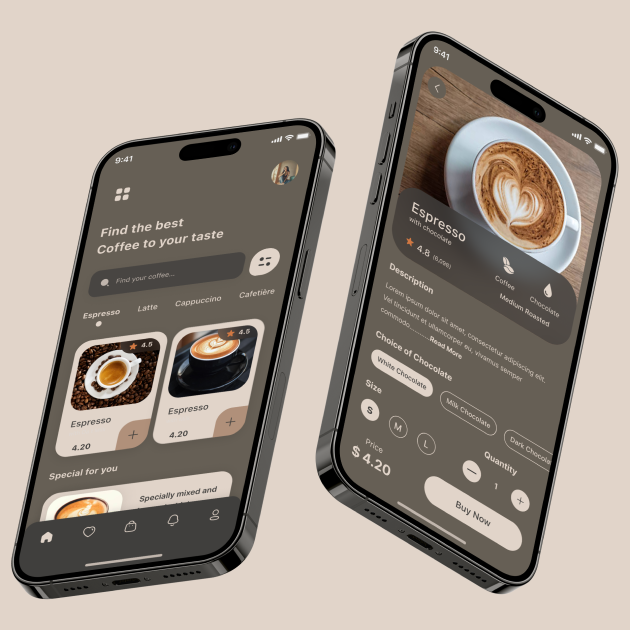
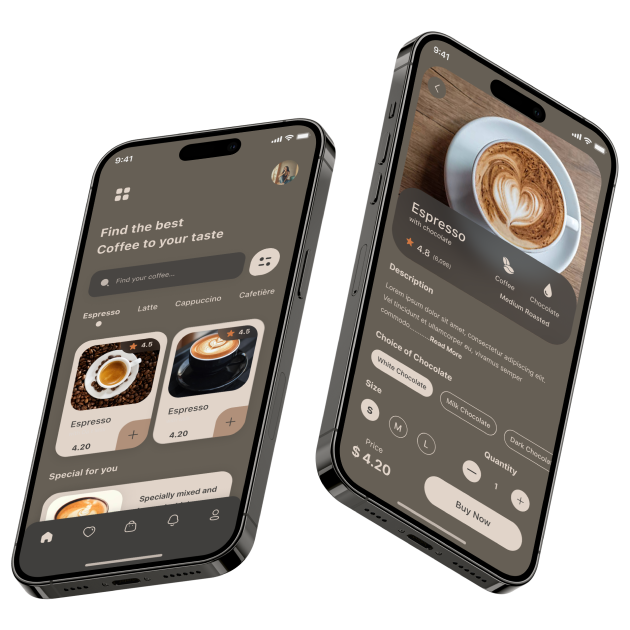
feat: new html and css

diff --git a/index.html b/index.html
@@ -8,44 +8,53 @@
     <meta name="author" content="Kate">
     <title>Document</title>
     <link rel="stylesheet" href="css/style.css">
+    <link rel="preconnect" href="https://fonts.googleapis.com">
+    <link rel="preconnect" href="https://fonts.gstatic.com" crossorigin>
+    <link href="https://fonts.googleapis.com/css2?family=Inter:wght@400;600&display=swap" rel="stylesheet">
+
 </head>
 
 <body>
-    <div class="wrapper">
+    <div class="body-wrapper">
         <header>
-            <div class="logo"><img src="img/logo.png" alt="Logo Cofee House"></div>
-            <nav class="menu">
-                <ul>
-                    <li>Favorite coffee</li>
-                    <li>About</li>
-                    <li>Mobile app</li>
-                    <li>Contact us</li>
-                </ul>
-            </nav>
-            <div class="right">
-                <div class="cofee-cup-text">Menu</div>
-                <div class="coffe-icon"><img src="icons/coffee-cup.svg" alt="Coffe cup icon"></div>
+            <div class="inner">
+                <div id="logo" class=""><img src="img/logo.png" alt="Logo Cofee House"></div>
+                <div id="top-menu" class="">
+                    <ul>
+                        <li><a href="#favorite">Favorite coffee</a></li>
+                        <li><a href="#about">About</a></li>
+                        <li><a href="#mobile-app">Mobile app</a></li>
+                        <li><a href="#contact">Contact us</a></li>
+                    </ul>
+                </div>
+                <div id="menu-link" class="cofee-cup-text"><a href="#">Menu <span class="coffe-icon"><img
+                                src="icons/coffee-cup.svg" alt="Coffe cup icon"></span></a>
+                </div>
             </div>
         </header>
         <main>
             <section id="promo">
                 <div class="promo-text">
-                    <h1>Enjoy premium coffee at our charming cafe</h1>
-                    <p>With its inviting atmosphere and delicious coffee options, the Coffee House Resource is a popular
+                    <h1><span class="accent">Enjoy</span> premium coffee at our charming cafe</h1>
+                    <p class="medium">With its inviting atmosphere and delicious coffee options, the Coffee House
+                        Resource is a
+                        popular
                         destination for coffee lovers and those seeking a warm and inviting space to enjoy their
                         favorite beverage.</p>
-                    <button>Menu</button>
+                    <button class="button-primary">Menu<span class="coffe-icon"><img src="icons/coffee-cup.svg"
+                                alt="Coffe cup icon"></span></button>
                 </div>
             </section>
             <section id="favorite">
-                <h2>Choose your favorite coffee</h2>
+                <h2>Choose your <span class="accent">favorite</span> coffee</h2>
                 <div class="slider">
                     <div class="product"></div>
                     <div class="img"><img src="img/coffee-slider-1.png" alt="Coffee cup"></div>
                     <div class="name">
                         <h3>S’mores Frappuccino</h3>
                     </div>
-                    <div class="text">This new drink takes an espresso and mixes it with brown sugar and cinnamon before
+                    <div class="text">This new drink takes an espresso and mixes it with brown sugar and cinnamon
+                        before
                         being topped with oat milk.</div>
                     <div class="price">$5.50</div>
                 </div>
@@ -54,29 +63,45 @@
                 </div>
             </section>
             <section id="enjoy">
-                <h2>Resource is the perfect and cozy place where you can enjoy a variety of hot beverages, relax, catch
+                <h2>Resource is <span class="accent">the perfect and cozy place</span> where you can enjoy a variety of
+                    hot beverages, relax,
+                    catch
                     up with friends, or get some work done.</h2>
                 <div class="gallery">
-                    <div class="image"><img src="img/gallery/img-1.jpg" alt=""></div>
-                    <div class="image"><img src="img/gallery/img-2.jpg" alt=""></div>
-                    <div class="image"><img src="img/gallery/img-3.jpg" alt=""></div>
-                    <div class="image"><img src="img/gallery/img-4.jpg" alt=""></div>
+                    <div class="image"><img src="img/gallery/about-1.jpg" alt=""></div>
+                    <div class="image"><img src="img/gallery/about-2.jpg" alt=""></div>
+                    <div class="image"><img src="img/gallery/about-3.jpg" alt=""></div>
+                    <div class="image"><img src="img/gallery/about-4.jpg" alt=""></div>
                 </div>
             </section>
-            <section id="download">
+            <section id="mobile-app">
                 <div class="blocks">
-                    <h2>Download our apps to start ordering</h2>
-                    <p>Download the Resource app today and experience the comfort of ordering your favorite coffee from
+                    <h2><span class="accent">Download</span> our apps to start ordering</h2>
+                    <p>Download the Resource app today and experience the comfort of ordering your favorite coffee
+                        from
                         wherever you are</p>
                     <div class="button-block">
-                        <button></button>
-                        <button></button>
+                        <button class="button-app-store">
+                            <span class="text">
+                                <p class="caption">Available on the </p>
+                                <p class="medium">App
+                                    Store</p>
+                            </span>
+                        </button>
+                        <button class="button-google-play">
+                            <span class="text">
+                                <p class="caption">Available on the </p>
+                                <p class="medium">Google
+                                    Play</p>
+                            </span>
+                        </button>
                     </div>
                 </div>
                 <div class="blocks">
                     <img src="img/mobile-screens.png" alt="">
                 </div>
             </section>
+
         </main>
         <footer>
             <div class="blocks">

diff --git a/css/style.css b/css/style.css
@@ -1,18 +1,224 @@
 body {
-    background-color: red;
+    font-family: 'Inter', sans-serif;
+    background-color: #E1D4C9;
+    color: #403F3D;
+    line-height: 1.6666;
+    font-weight: 400;
+    margin: 0;
 }
 
-.wrapper {
-    width: 1440px;
-    background-color: white;
-    margin: 0 auto;
+h1 {
+    font-size: 72px;
+    font-weight: 600;
+    line-height: 105%;
+}
+
+h2 {
+    font-size: 60px;
+    font-weight: 600;
+    line-height: 125%;
+}
+
+h3 {
+    font-size: 24px;
+    font-weight: 600;
+    line-height: 125%;
+}
+
+.accent {
+    font-style: italic;
+    color: #B0907A;
+}
+
+.medium {
+    font-size: 16px;
+    font-weight: 400;
+    line-height: 150%;
+}
+
+.caption {
+    font-size: 10px;
+    font-weight: 600;
+    line-height: 140%;
+}
+
+button {
+    cursor: pointer;
+}
+
+.button-primary {
+    width: 200px;
+    height: 64px;
+    background-color: #E1D4C9;
+    padding: 15px;
+    border: 1px solid #E1D4C9;
+    border-radius: 100px;
+    color: inherit;
+    font: inherit;
+}
+
+
+.button-primary .coffe-icon {
+    display: none;
+}
+
+.button-primary:hover .coffe-icon {
+    display: inline-block;
+    margin-left: 5px;
+    animation: 1s show ease;
+}
+
+@keyframes show {
+    from {
+        opacity: 0;
+    }
+
+    to {
+        opacity: 1;
+    }
+}
+
+a {
+    color: #403F3D;
+    text-decoration: none;
+}
+
+.button-google-play,
+.button-app-store {
+    width: 200px;
+    height: 64px;
+    background-color: transparent;
+    border: 1px solid #403F3D;
+    border-radius: 100px;
+    color: inherit;
+    font: inherit;
+    position: relative;
+}
+
+.button-block p {
+    margin: 0;
+}
+
+#mobile-app .button-google-play:hover,
+.button-app-store:hover {
+    background-color: #403F3D;
+    color: #E1D4C9;
+}
+
+.button-google-play .text,
+.button-app-store .text {
+    padding-left: 25px;
+    display: inherit;
+    text-align: left;
+    margin: 0;
+}
+
+.button-google-play:before {
+    position: absolute;
+    top: 10px;
+    left: 20px;
+    display: inherit;
+    content: '';
+    width: 36px;
+    height: 36px;
+    background: url(../icons/google-play-dark-icon.svg) center no-repeat;
+}
+
+.button-google-play:hover:before {
+    background: url(../icons/google-play-light-icon.svg) center no-repeat;
+
+}
+
+.button-app-store:before {
+    position: absolute;
+    top: 10px;
+    left: 20px;
+    display: inherit;
+    content: '';
+    width: 36px;
+    height: 36px;
+    background: url(../icons/app-store-dark-icon.svg) center no-repeat;
+}
+
+.button-app-store:hover:before {
+    background: url(../icons/app-store-light-icon.svg) center no-repeat;
+
+}
+
+a,
+button {
+    font-size: 16px;
+    font-weight: 600;
+    line-height: 150%;
+}
+
+.burger-link {
+    font-size: 32px;
+    font-weight: 600;
+    line-height: 125%;
+}
+
+header {
+    padding: 10px 0;
+}
+
+.body-wrapper {
+    max-width: 1440px;
+    margin-right: auto;
+    margin-left: auto;
+}
+
+header .inner {
+    display: -webkit-flex;
+    display: flex;
+    -webkit-flex-direction: row;
+    flex-direction: row;
+    align-items: center;
 }
 
 #promo {
-    background-image: url('../img/hero.jpg');
+    background-image: url('../img/img-hero.jpg');
     background-repeat: no-repeat;
     background-size: cover;
     background-attachment: scroll;
-    background-position: co;
+    background-position: cover;
     padding: 60px;
+    border-radius: 40px;
+}
+
+#promo h1,
+#promo p {
+    color: #E1D4C9;
+}
+
+#promo .promo-text {
+    max-width: 530px;
+}
+
+#top-menu {
+    flex: 1 0 0;
+    text-align: center;
+}
+
+#logo {
+    flex-basis: 100px;
+}
+
+#menu-link {
+    flex-basis: 72px;
+}
+
+.coffe-icon {
+    position: relative;
+    top: 3px;
+}
+
+#top-menu ul>li {
+    display: inline;
+    padding: 10px 15px;
+    margin: 0 5px;
+}
+
+#menu-link {
+    text-align: right;
 }
